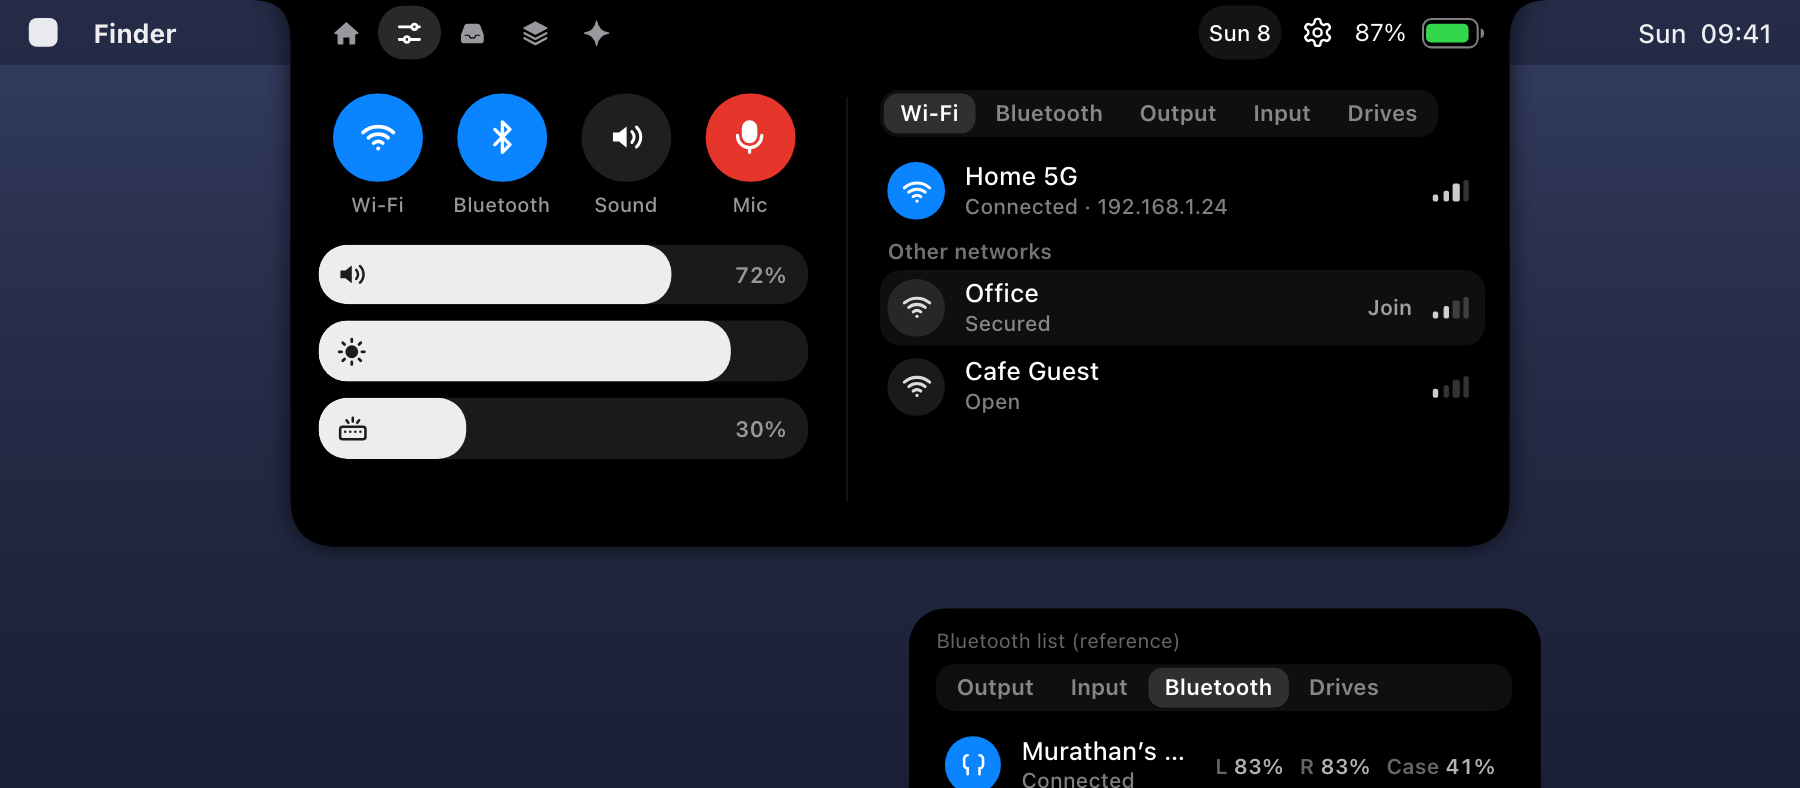
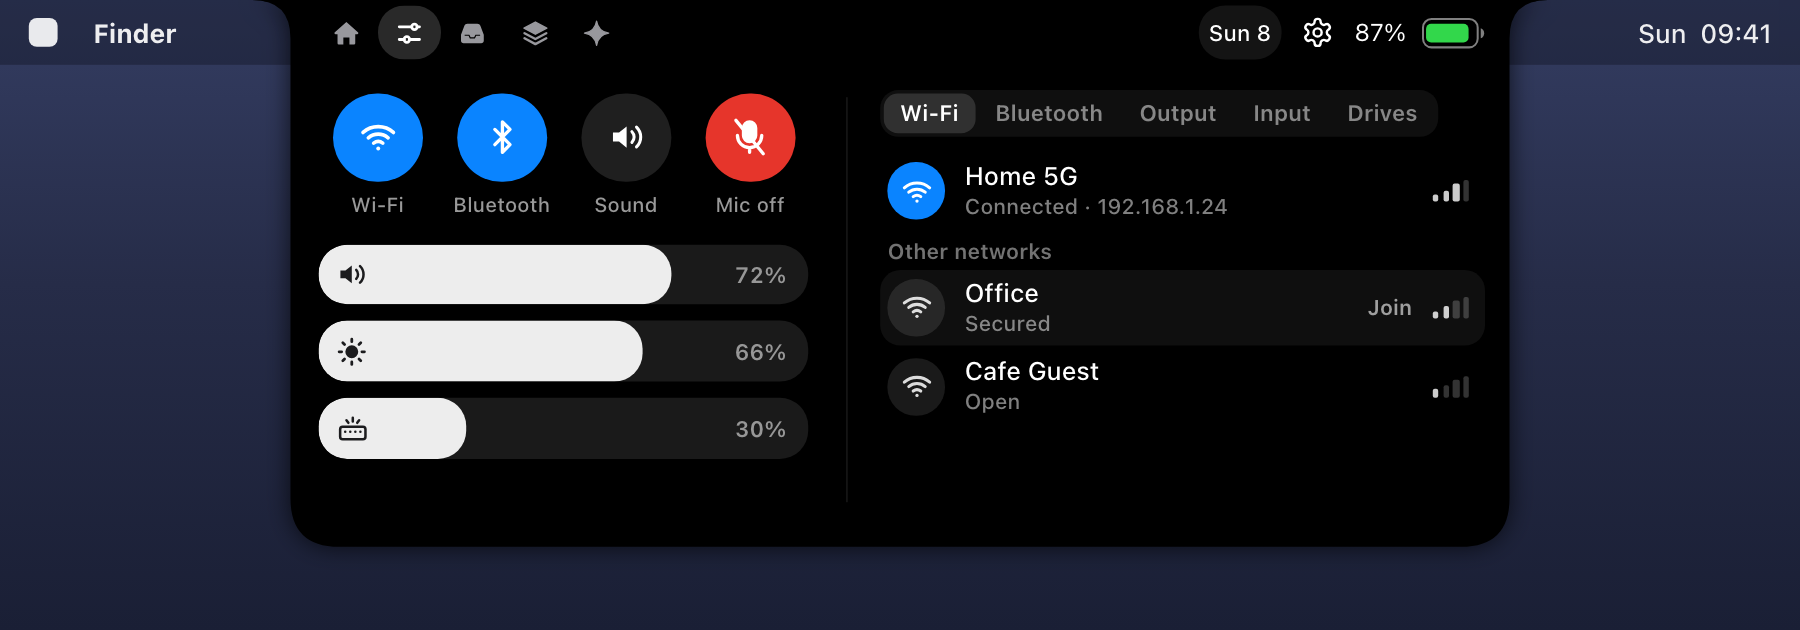
README: Wi-Fi and quick toggles in Controls, clean screenshot

diff --git a/docs/images/mockups/controls.html b/docs/images/mockups/controls.html
@@ -61,7 +61,7 @@
 </style>
 </head>
 <body>
-<div class="scene" data-size="1600x700" style="--W:1600px;--H:700px;--s:1.8">
+<div class="scene" data-size="1600x560" style="--W:1600px;--H:560px;--s:1.8">
   <div class="desk"></div>
   <div class="stage">
     <div class="menubar">
@@ -101,15 +101,15 @@
                 <div class="q"><div class="qb on"><svg width="18" height="18" viewBox="0 0 24 24" fill="none" stroke="currentColor" stroke-width="2.4" stroke-linecap="round"><path d="M2 9a15 15 0 0 1 20 0M5.5 12.5a10 10 0 0 1 13 0M9 16a5 5 0 0 1 6 0"/><circle cx="12" cy="19.5" r="1.3" fill="currentColor" stroke="none"/></svg></div><span>Wi‑Fi</span></div>
                 <div class="q"><div class="qb on"><svg width="18" height="18" viewBox="0 0 24 24" fill="none" stroke="currentColor" stroke-width="2.2" stroke-linecap="round" stroke-linejoin="round"><path d="M7 7l10 10-5 5V2l5 5L7 17"/></svg></div><span>Bluetooth</span></div>
                 <div class="q"><div class="qb"><svg width="18" height="18" viewBox="0 0 24 24" fill="currentColor"><path d="M3 9h4l5-4v14l-5-4H3z"/><path d="M15.5 8.5a5 5 0 0 1 0 7M18.5 5.5a9 9 0 0 1 0 13" fill="none" stroke="currentColor" stroke-width="2" stroke-linecap="round"/></svg></div><span>Sound</span></div>
-                <div class="q sel"><div class="qb"><svg width="15" height="18" viewBox="0 0 20 24" fill="none" stroke="currentColor" stroke-width="2.2" stroke-linecap="round"><rect x="6" y="2" width="8" height="13" rx="4" fill="currentColor"/><path d="M2 11a8 8 0 0 0 16 0M10 19v3"/></svg></div><span>Mic</span></div>
+                <div class="q sel"><div class="qb"><svg width="15" height="18" viewBox="0 0 20 24" fill="none" stroke="currentColor" stroke-width="2.2" stroke-linecap="round"><rect x="6" y="2" width="8" height="13" rx="4" fill="currentColor"/><path d="M2 11a8 8 0 0 0 16 0M10 19v3M1 1l18 22"/></svg></div><span>Mic off</span></div>
               </div>
               <div class="grp" style="gap:8px">
                 <div class="cap"><i style="width:72%"></i>
                   <span class="ico"><svg width="15" height="15" viewBox="0 0 24 24" fill="currentColor"><path d="M3 9h4l5-4v14l-5-4H3z"/><path d="M15.5 8.5a5 5 0 0 1 0 7M18.5 5.5a9 9 0 0 1 0 13" fill="none" stroke="currentColor" stroke-width="2" stroke-linecap="round"/></svg></span>
                   <span class="val">72%</span></div>
-                <div class="cap"><i style="width:84%"></i>
+                <div class="cap"><i style="width:66%"></i>
                   <span class="ico"><svg width="15" height="15" viewBox="0 0 24 24" fill="none" stroke="currentColor" stroke-width="2.2" stroke-linecap="round"><circle cx="12" cy="12" r="4" fill="currentColor"/><path d="M12 2v2M12 20v2M2 12h2M20 12h2M4.9 4.9l1.4 1.4M17.7 17.7l1.4 1.4M4.9 19.1l1.4-1.4M17.7 6.3l1.4-1.4"/></svg></span>
-                  <span class="val" style="color:#1c1c1e">84%</span></div>
+                  <span class="val">66%</span></div>
                 <div class="cap"><i style="width:30%"></i>
                   <span class="ico"><svg width="16" height="15" viewBox="0 0 24 24" fill="none" stroke="currentColor" stroke-width="2"><rect x="2" y="10" width="20" height="10" rx="2"/><path d="M6 14h.01M10 14h.01M14 14h.01M18 14h.01M12 3v3M7 5l1.5 2M17 5l-1.5 2" stroke-linecap="round"/></svg></span>
                   <span class="val">30%</span></div>
@@ -146,24 +146,7 @@
       </div>
     </div>
 
-    <!-- Reference: Bluetooth list state -->
-    <div class="ref">
-      <div class="cap-t">Bluetooth list (reference)</div>
-      <div class="seg" style="margin-bottom:8px"><span>Output</span><span>Input</span><span class="sel">Bluetooth</span><span>Drives</span></div>
-      <div class="list">
-        <div class="row">
-          <div class="bub on"><svg width="14" height="14" viewBox="0 0 24 24" fill="none" stroke="currentColor" stroke-width="2.2" stroke-linecap="round"><path d="M7 4a3 3 0 0 0-3 3v5a3 3 0 0 0 3 3v5M17 4a3 3 0 0 1 3 3v5a3 3 0 0 1-3 3v5"/></svg></div>
-          <div class="mid"><span class="n">Murathan’s AirPods Pro</span><span class="s">Connected</span></div>
-          <div class="bat"><span><em>L</em>83%</span><span><em>R</em>83%</span><span><em>Case</em>41%</span></div>
-        </div>
-        <div class="row hover">
-          <div class="bub"><svg width="14" height="14" viewBox="0 0 24 24" fill="none" stroke="currentColor" stroke-width="2"><rect x="6" y="2" width="12" height="20" rx="6"/><path d="M12 6v4" stroke-linecap="round"/></svg></div>
-          <div class="mid"><span class="n">Magic Mouse</span><span class="s">Not connected</span></div>
-          <span class="hint">Connect</span>
-        </div>
-      </div>
     </div>
-  </div>
 </div>
 <script src="icons.js"></script>
 </body>

diff --git a/README.md b/README.md
@@ -39,7 +39,7 @@
 
 ## Unreleased
 
-- **Controls tab.** A new tab next to Home to pick where sound plays and records, set volume, connect or disconnect Bluetooth devices, eject drives, and set display and keyboard brightness. See [Controls](#controls).
+- **Controls tab.** A new tab next to Home, like Control Center on an iPhone: one-click Wi-Fi, Bluetooth, sound and microphone switches, volume, brightness and keyboard light sliders, and lists to join Wi-Fi networks, connect Bluetooth devices (with their batteries), pick where sound plays and records, and eject drives. See [Controls](#controls).
 
 ## What's new in 0.3.0
 
@@ -289,7 +289,7 @@ None of this needs an account or leaves your Mac. [How each one is read](docs/nu
 The Controls tab, next to Home, puts the everyday switches in one place. Hide it in Settings, Tabs if you do not want it.
 
 - **Quick toggles and levels.** Four round switches like on an iPhone: Wi-Fi, Bluetooth, Sound (mute) and Mic (mute). Wi-Fi and Bluetooth also open their list on the right. Under them three Control Center style capsule sliders: volume, brightness and keyboard light. Drag anywhere to set a level, click to jump; tap the speaker to mute. A slider that cannot work on your Mac is dimmed and says "Not available". Brightness follows the display macOS can control, so with an external main display it moves the built-in screen. Dragging never shows the volume or brightness HUD. Muting the microphone sets its level to 0 and brings it back when you switch it on again; if the microphone does not allow changing its level, the Mic switch is dimmed.
-- **Devices.** A switcher for Wi-Fi, Bluetooth, Output and Input, and Drives while a drive is connected. Click a row to pick where sound plays or records; the selected device has an accent-colored circle and each row says how it is connected (Built-in, Bluetooth, HDMI, USB...). The microphone level slider sits at the top of the Input list ("Fixed" when the microphone does not allow changing it). Bluetooth shows paired devices with their battery (for AirPods-style devices each part: L, R and Case); click a row to connect or disconnect. The Bluetooth switch turns Bluetooth on or off through Nubrix's helper; if your Mac does not allow that, it opens Bluetooth settings instead. Drives and memory cards show their free space and an eject button. The notch is taller on this tab so four rows fit without scrolling.
+- **Devices.** A switcher for Wi-Fi, Bluetooth, Output and Input, and Drives while a drive is connected. Wi-Fi shows the current network with its IP address and signal, and other networks nearby; click an open network to join it, a secured one opens Wi-Fi settings (Nubrix never asks for or stores passwords). macOS treats network names as location data, so names appear only after you click "Show network names" and allow Location; nothing asks for it before that. Click a row to pick where sound plays or records; the selected device has an accent-colored circle and each row says how it is connected (Built-in, Bluetooth, HDMI, USB...). The microphone level slider sits at the top of the Input list ("Fixed" when the microphone does not allow changing it). Bluetooth shows paired devices with their battery (for AirPods-style devices each part: L, R and Case); click a row to connect or disconnect. The Bluetooth switch turns Bluetooth on or off through Nubrix's helper; if your Mac does not allow that, it opens Bluetooth settings instead. Drives and memory cards show their free space and an eject button. The notch is taller on this tab so four rows fit without scrolling.
 - Tapping a "Sound plays on..." or drive alert on the closed notch opens this tab.
 
 <p align="center">
